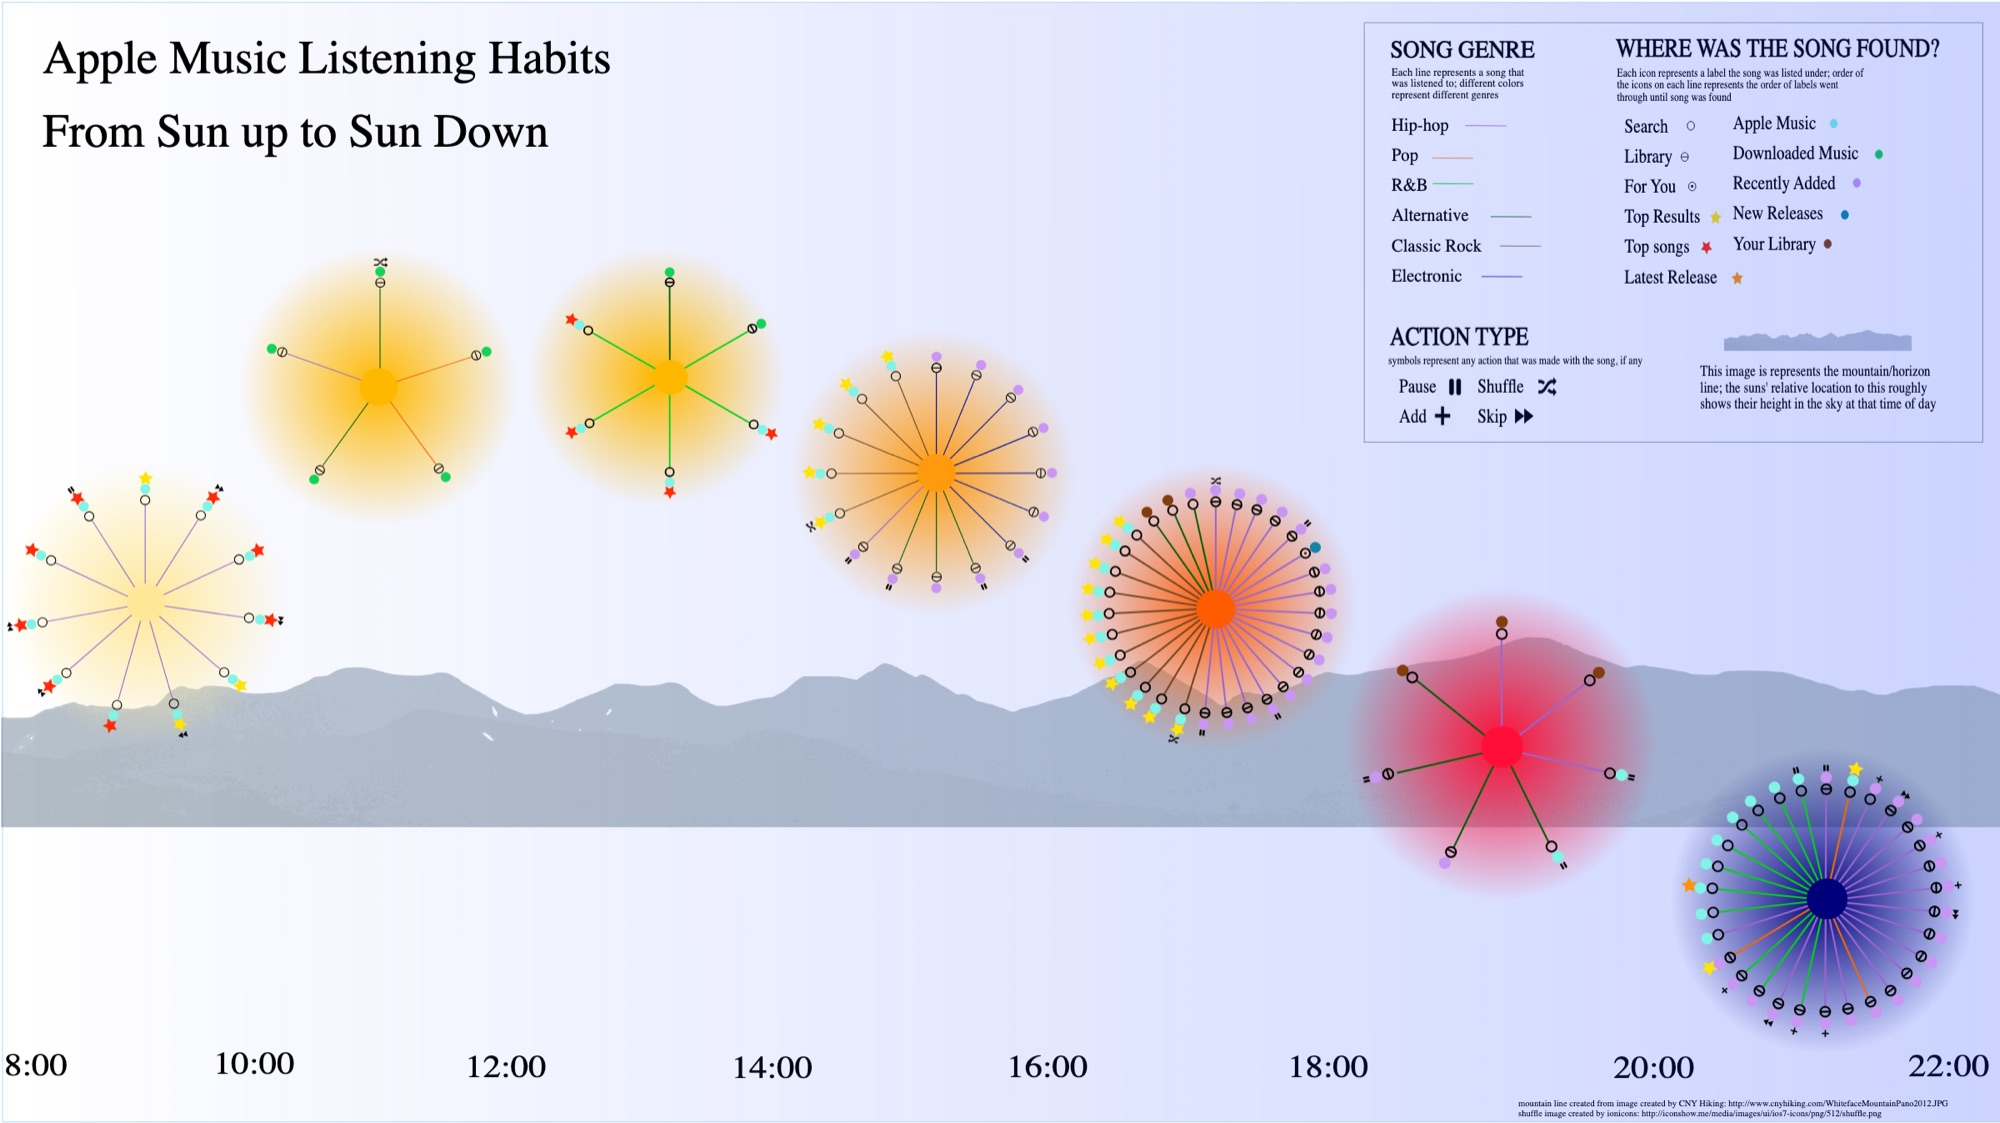
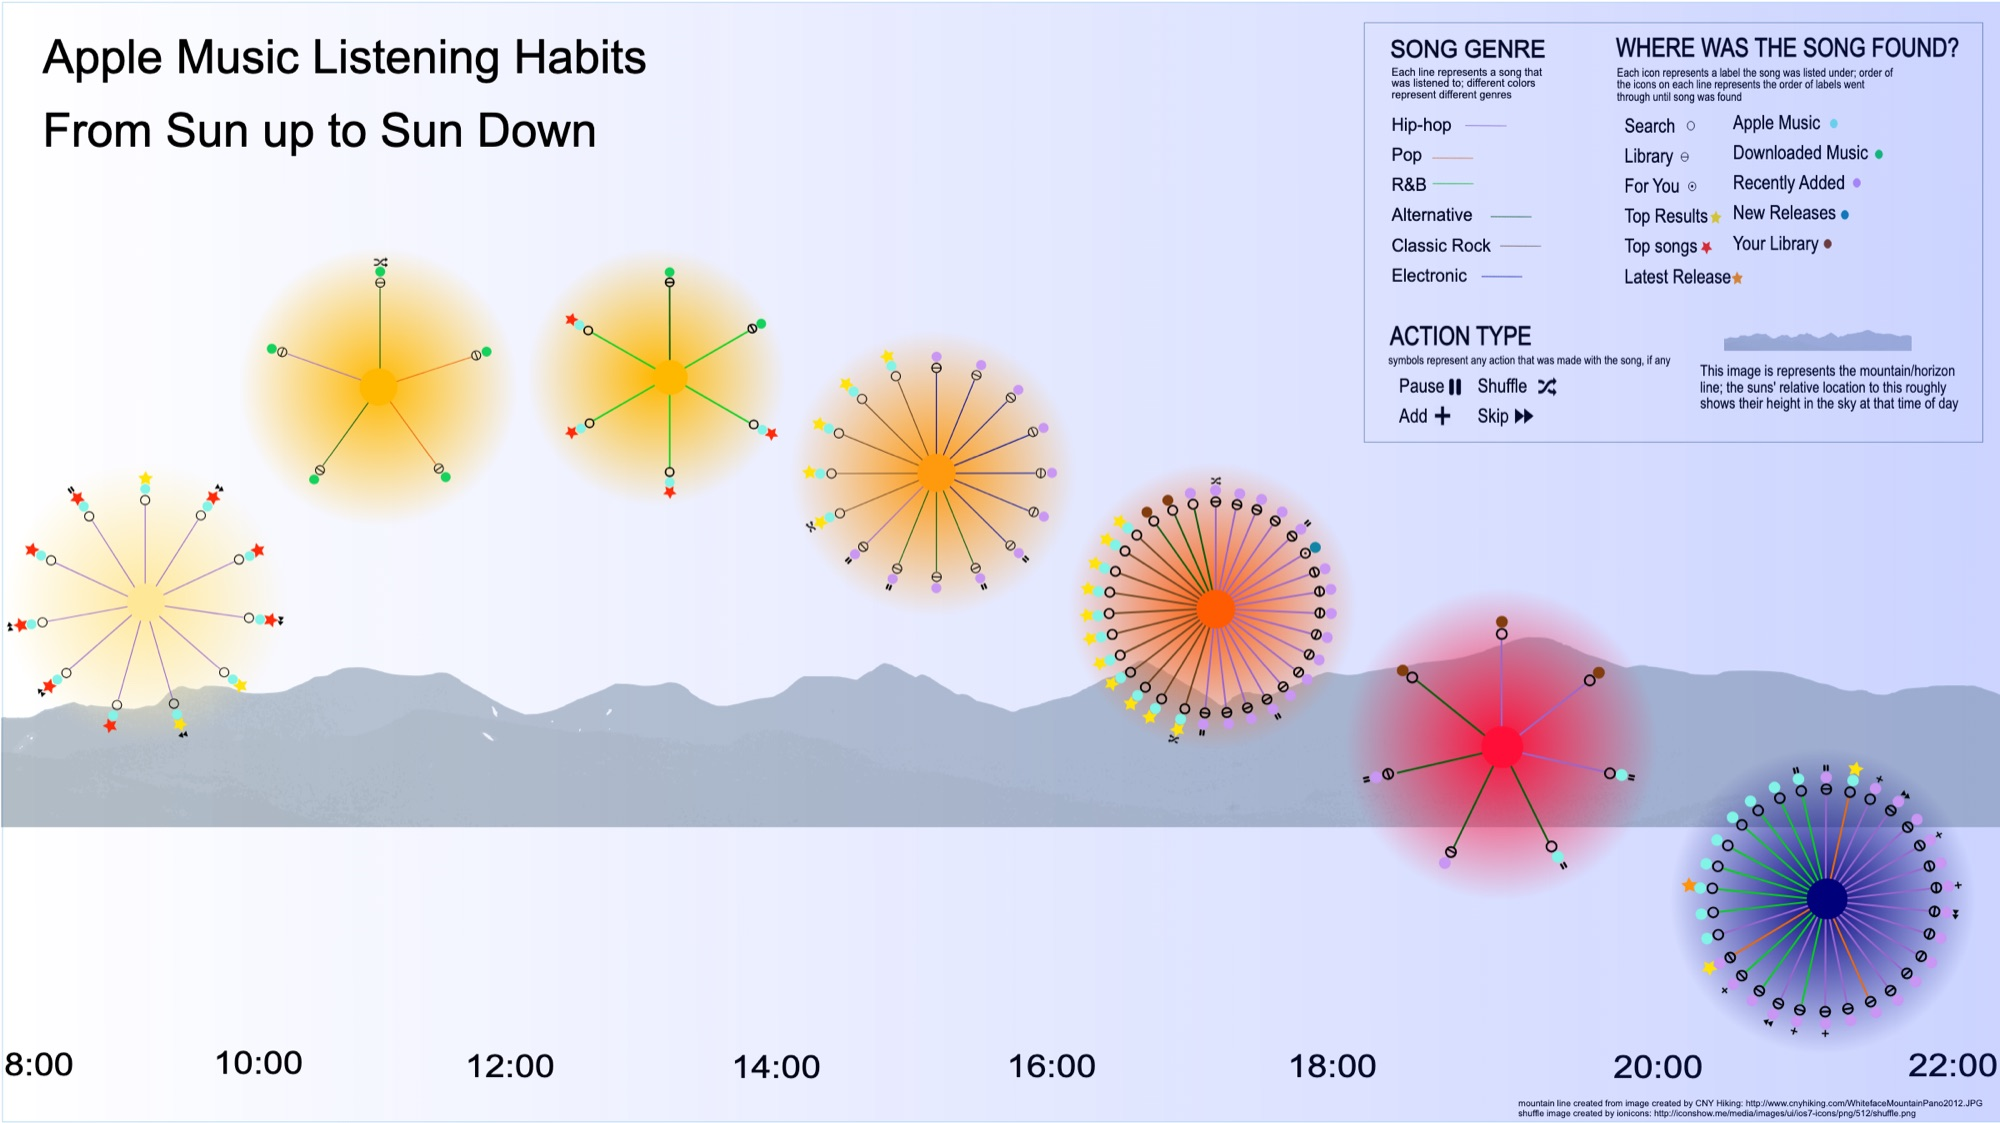
Implement light/dark theme toggle functionality and update styles across multiple pages

diff --git a/design.html b/design.html
@@ -8,6 +8,7 @@
   <link rel="preconnect" href="https://fonts.gstatic.com" crossorigin>
 <link href="https://fonts.googleapis.com/css2?family=Inter:wght@400;500&family=Libre+Caslon+Text:ital,wght@0,400;0,700;1,400&family=IM+Fell+English:ital@0;1&display=swap" rel="stylesheet">
 <link rel="stylesheet" href="style.css">
+<script src="theme.js"></script>
 </head>
 <body>
   <header class="site-header">
@@ -18,6 +19,10 @@
       <a href="design.html" aria-current="page">Design</a>
       <a href="resume.pdf" target="_blank" rel="noopener">Resume</a>
       <a href="connect.html">Connect</a>
+      <button class="theme-toggle" type="button" aria-label="Switch to dark mode">
+        <svg class="moon" viewBox="0 0 24 24" aria-hidden="true"><path d="M20 14.5A8 8 0 0 1 9.5 4a8 8 0 1 0 10.5 10.5z"/></svg>
+        <svg class="sun" viewBox="0 0 24 24" aria-hidden="true"><circle cx="12" cy="12" r="4"/><path d="M12 2v2M12 20v2M2 12h2M20 12h2M4.9 4.9l1.4 1.4M17.7 17.7l1.4 1.4M4.9 19.1l1.4-1.4M17.7 6.3l1.4-1.4"/></svg>
+      </button>
     </nav>
   </header>
 
@@ -27,7 +32,7 @@
     <ul class="gallery">
       <li>
         <a href="https://messagepics.com" target="_blank" rel="noopener">
-          <img src="images/design-message-pictures.jpg" alt="Homepage of the Message Pictures website">
+          <img src="images/design-message-pictures.jpg" alt="Opening animation of the Message Pictures website: a cut-out megaphone on crumpled paper">
           <span class="title">Message Pictures website</span>
           <span class="caption">Website for the documentary film production company Message Pictures.</span>
         </a>
@@ -36,21 +41,21 @@
         <a href="https://readymag.website/u2559114793/6405582/" target="_blank" rel="noopener">
           <img src="images/design-metoo-deck.jpg" alt="Title page of the #MeToo pitch deck">
           <span class="title">#MeToo pitch deck</span>
-          <span class="caption">An interactive pitch deck for a four-part documentary series, built in Readymag.</span>
+          <span class="caption">An interactive pitch deck for a four-part documentary series. Designed, coded and animated in Readymag.</span>
         </a>
       </li>
       <li>
         <a href="https://chloeshoko.github.io/final-final-project/" target="_blank" rel="noopener">
           <img src="images/design-composting-story.jpg" alt="Opening of the NYC composting data story">
           <span class="title">NYC composting data story</span>
-          <span class="caption">A web data story on New York City’s mandatory composting rules and how they’ve been enforced.</span>
+          <span class="caption">A data story on New York City’s mandatory composting rules. Wrote it, coded it in JavaScript with SvelteKit and created the visualizations.</span>
         </a>
       </li>
       <li>
         <a href="images/design-flier.pdf" target="_blank" rel="noopener">
           <img src="images/design-boxing-flier.jpg" alt="Boxing for Cancer event flier">
           <span class="title">Boxing event flier</span>
-          <span class="caption">Flier for Boxing for Cancer, a fundraiser for the Ulman Cancer Fund for Young Adults.</span>
+          <span class="caption">Flier for Boxing for Cancer, a fundraiser for the Ulman Cancer Fund for Young Adults. Created in InDesign and Illustrator.</span>
         </a>
       </li>
       <li>
@@ -61,10 +66,10 @@
         </a>
       </li>
       <li>
-        <a href="images/design-data%20viz.svg" target="_blank" rel="noopener">
+        <a href="images/design-apple-music.jpg" target="_blank" rel="noopener">
           <img src="images/design-apple-music.jpg" alt="Apple Music listening habits data visualization">
           <span class="title">Apple Music listening data viz</span>
-          <span class="caption">A day of Apple Music listening, sunup to sundown: each song’s genre, how it was found and what was done with it.</span>
+          <span class="caption">A day of Apple Music listening, sunup to sundown: each song’s genre, how it was found and what was done with it. Created in InDesign and Illustrator.</span>
         </a>
       </li>
     </ul>

diff --git a/style.css b/style.css
@@ -9,14 +9,12 @@
   --oldstyle: "IM Fell English", Garamond, serif;
 }
 
-@media (prefers-color-scheme: dark) {
-  :root {
-    --paper: #17191b;
-    --ink: #e8eae7;
-    --muted: #9da2a6;
-    --rule: #33373a;
-    --accent: #a3b0f2;
-  }
+:root[data-theme="dark"] {
+  --paper: #17191b;
+  --ink: #e8eae7;
+  --muted: #9da2a6;
+  --rule: #33373a;
+  --accent: #a3b0f2;
 }
 
 * { box-sizing: border-box; }
@@ -39,6 +37,23 @@ a:focus-visible { outline: 2px solid var(--accent); outline-offset: 3px; }
 .menu { display: flex; flex-wrap: wrap; justify-content: center; gap: 0.5rem 2.25rem; font-weight: 500; }
 .menu a { color: var(--muted); text-decoration: none; }
 .menu a:hover, .menu a[aria-current="page"] { color: var(--accent); text-decoration: underline; text-underline-offset: 0.25em; text-decoration-thickness: 1px; }
+
+/* Light/dark toggle, at the end of the menu */
+.theme-toggle {
+  display: inline-flex;
+  align-self: center;
+  padding: 0.15rem;
+  border: 0;
+  background: none;
+  color: var(--muted);
+  cursor: pointer;
+}
+.theme-toggle:hover { color: var(--accent); }
+.theme-toggle:focus-visible { outline: 2px solid var(--accent); outline-offset: 3px; }
+.theme-toggle svg { width: 1.1rem; height: 1.1rem; fill: currentColor; stroke: currentColor; stroke-width: 2; stroke-linecap: round; }
+.theme-toggle .moon { stroke: none; }
+.theme-toggle .sun, [data-theme="dark"] .theme-toggle .moon { display: none; }
+[data-theme="dark"] .theme-toggle .sun { display: block; }
 
 /* Opening page */
 .home {

diff --git a/connect.html b/connect.html
@@ -8,6 +8,7 @@
   <link rel="preconnect" href="https://fonts.gstatic.com" crossorigin>
  <link href="https://fonts.googleapis.com/css2?family=Inter:wght@400;500&family=Libre+Caslon+Text:ital,wght@0,400;0,700;1,400&family=IM+Fell+English:ital@0;1&display=swap" rel="stylesheet">
   <link rel="stylesheet" href="style.css">
+  <script src="theme.js"></script>
 </head>
 <body>
   <header class="site-header">
@@ -18,6 +19,10 @@
       <a href="design.html">Design</a>
       <a href="resume.pdf" target="_blank" rel="noopener">Resume</a>
       <a href="connect.html" aria-current="page">connect</a>
+      <button class="theme-toggle" type="button" aria-label="Switch to dark mode">
+        <svg class="moon" viewBox="0 0 24 24" aria-hidden="true"><path d="M20 14.5A8 8 0 0 1 9.5 4a8 8 0 1 0 10.5 10.5z"/></svg>
+        <svg class="sun" viewBox="0 0 24 24" aria-hidden="true"><circle cx="12" cy="12" r="4"/><path d="M12 2v2M12 20v2M2 12h2M20 12h2M4.9 4.9l1.4 1.4M17.7 17.7l1.4 1.4M4.9 19.1l1.4-1.4M17.7 6.3l1.4-1.4"/></svg>
+      </button>
     </nav>
   </header>
 

diff --git a/index.html b/index.html
@@ -9,6 +9,7 @@
   <link rel="preconnect" href="https://fonts.gstatic.com" crossorigin>
 <link href="https://fonts.googleapis.com/css2?family=Inter:wght@400;500&family=Libre+Caslon+Text:ital,wght@0,400;0,700;1,400&family=IM+Fell+English:ital@0;1&display=swap" rel="stylesheet">
 <link rel="stylesheet" href="style.css">
+<script src="theme.js"></script>
 </head>
 <body>
   <main class="home">
@@ -23,6 +24,10 @@
       <a href="design.html">Design</a>
       <a href="resume.pdf" target="_blank" rel="noopener">Resume</a>
       <a href="connect.html">Connect</a>
+      <button class="theme-toggle" type="button" aria-label="Switch to dark mode">
+        <svg class="moon" viewBox="0 0 24 24" aria-hidden="true"><path d="M20 14.5A8 8 0 0 1 9.5 4a8 8 0 1 0 10.5 10.5z"/></svg>
+        <svg class="sun" viewBox="0 0 24 24" aria-hidden="true"><circle cx="12" cy="12" r="4"/><path d="M12 2v2M12 20v2M2 12h2M20 12h2M4.9 4.9l1.4 1.4M17.7 17.7l1.4 1.4M4.9 19.1l1.4-1.4M17.7 6.3l1.4-1.4"/></svg>
+      </button>
     </nav>
 
     <div class="home-bio">

diff --git a/print.html b/print.html
@@ -8,6 +8,7 @@
   <link rel="preconnect" href="https://fonts.gstatic.com" crossorigin>
  <link href="https://fonts.googleapis.com/css2?family=Inter:wght@400;500&family=Libre+Caslon+Text:ital,wght@0,400;0,700;1,400&family=IM+Fell+English:ital@0;1&display=swap" rel="stylesheet">
   <link rel="stylesheet" href="style.css">
+  <script src="theme.js"></script>
 </head>
 <body>
   <header class="site-header">
@@ -18,6 +19,10 @@
       <a href="design.html">Design</a>
       <a href="resume.pdf" target="_blank" rel="noopener">Resume</a>
       <a href="connect.html">Connect</a>
+      <button class="theme-toggle" type="button" aria-label="Switch to dark mode">
+        <svg class="moon" viewBox="0 0 24 24" aria-hidden="true"><path d="M20 14.5A8 8 0 0 1 9.5 4a8 8 0 1 0 10.5 10.5z"/></svg>
+        <svg class="sun" viewBox="0 0 24 24" aria-hidden="true"><circle cx="12" cy="12" r="4"/><path d="M12 2v2M12 20v2M2 12h2M20 12h2M4.9 4.9l1.4 1.4M17.7 17.7l1.4 1.4M4.9 19.1l1.4-1.4M17.7 6.3l1.4-1.4"/></svg>
+      </button>
     </nav>
   </header>
 

diff --git a/video.html b/video.html
@@ -8,6 +8,7 @@
   <link rel="preconnect" href="https://fonts.gstatic.com" crossorigin>
  <link href="https://fonts.googleapis.com/css2?family=Inter:wght@400;500&family=Libre+Caslon+Text:ital,wght@0,400;0,700;1,400&family=IM+Fell+English:ital@0;1&display=swap" rel="stylesheet">
   <link rel="stylesheet" href="style.css">
+  <script src="theme.js"></script>
 </head>
 <body>
   <header class="site-header">
@@ -18,6 +19,10 @@
       <a href="design.html">Design</a>
       <a href="resume.pdf" target="_blank" rel="noopener">Resume</a>
       <a href="connect.html">Connect</a>
+      <button class="theme-toggle" type="button" aria-label="Switch to dark mode">
+        <svg class="moon" viewBox="0 0 24 24" aria-hidden="true"><path d="M20 14.5A8 8 0 0 1 9.5 4a8 8 0 1 0 10.5 10.5z"/></svg>
+        <svg class="sun" viewBox="0 0 24 24" aria-hidden="true"><circle cx="12" cy="12" r="4"/><path d="M12 2v2M12 20v2M2 12h2M20 12h2M4.9 4.9l1.4 1.4M17.7 17.7l1.4 1.4M4.9 19.1l1.4-1.4M17.7 6.3l1.4-1.4"/></svg>
+      </button>
     </nav>
   </header>
 

diff --git a/theme.js b/theme.js
@@ -1,0 +1,20 @@
+// Light/dark toggle. Light is the default; a viewer's choice is remembered.
+let theme = "light";
+try { theme = localStorage.getItem("theme") || "light"; } catch {}
+document.documentElement.dataset.theme = theme;
+
+document.addEventListener("DOMContentLoaded", () => {
+  const button = document.querySelector(".theme-toggle");
+  const update = () => {
+    const dark = document.documentElement.dataset.theme === "dark";
+    button.setAttribute("aria-pressed", String(dark));
+    button.setAttribute("aria-label", dark ? "Switch to light mode" : "Switch to dark mode");
+  };
+  update();
+  button.addEventListener("click", () => {
+    const next = document.documentElement.dataset.theme === "dark" ? "light" : "dark";
+    document.documentElement.dataset.theme = next;
+    try { localStorage.setItem("theme", next); } catch {}
+    update();
+  });
+});
